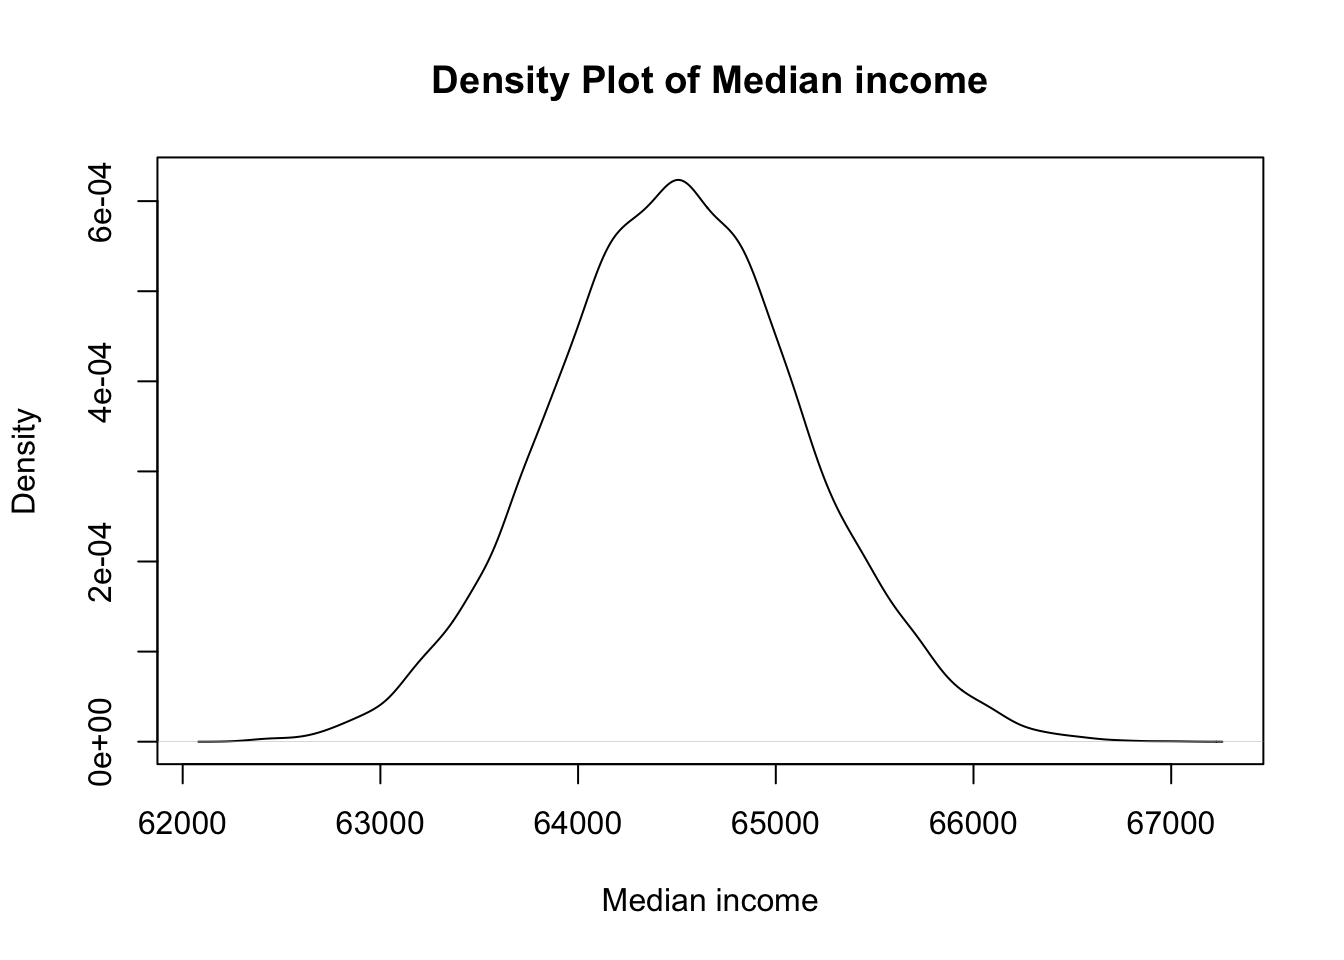
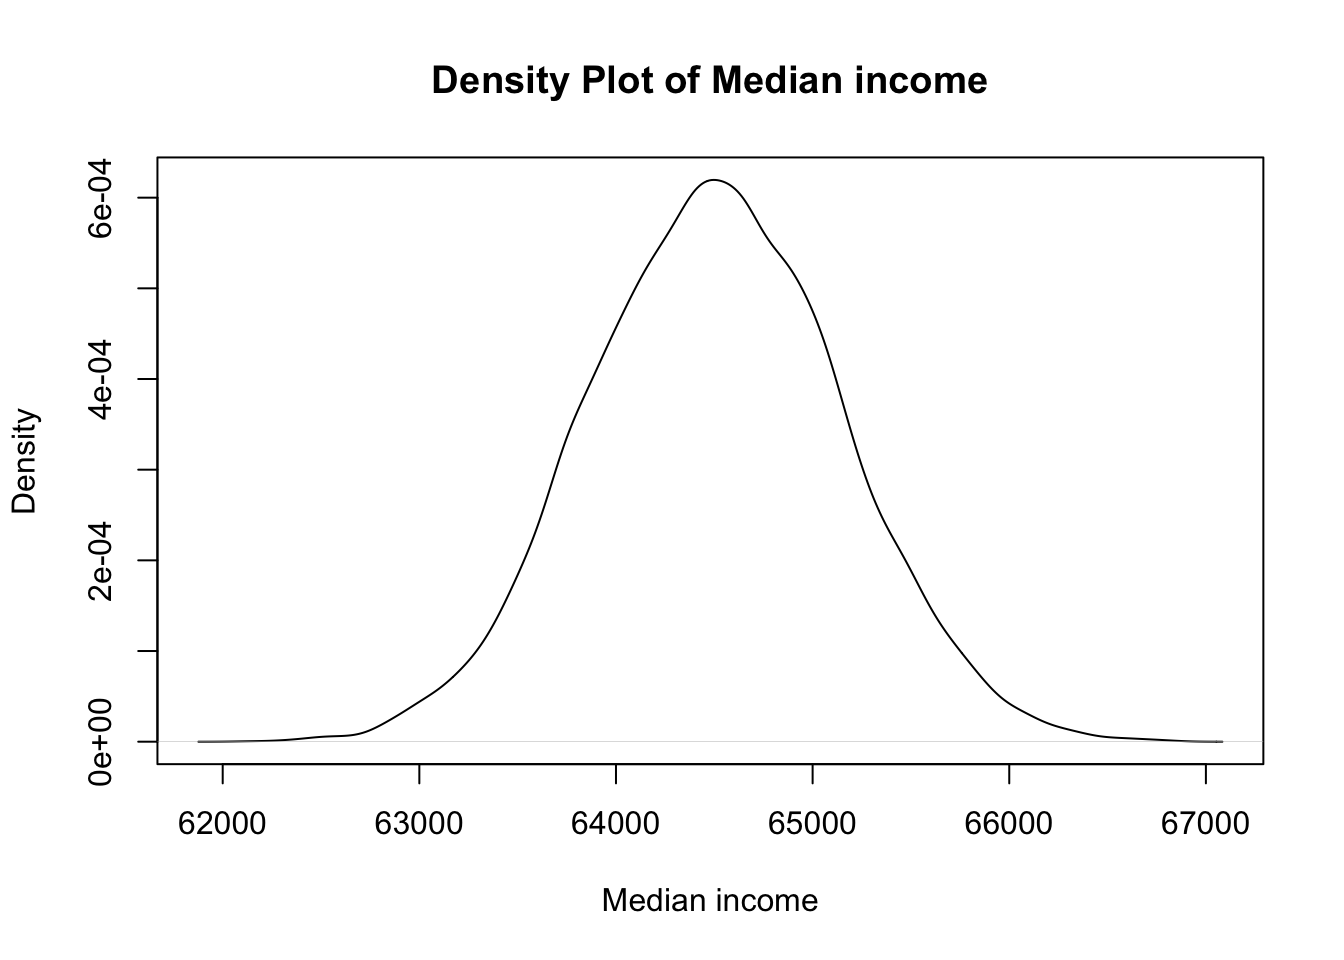
28112410

diff --git a/docs/posts/montecarlo.html b/docs/posts/montecarlo.html
@@ -1977,7 +1977,7 @@ Income distribution is not normal
 </details>
 <div class="cell-output cell-output-stdout">
 <pre><code>     Min.   1st Qu.    Median      Mean   3rd Qu.      Max. 
-   207500    295948    344892    577105    439793 228674374 </code></pre>
+   208697    295820    341613    547889    431615 213375195 </code></pre>
 </div>
 <details open="" class="code-fold">
 <summary>Code</summary>
@@ -1985,7 +1985,7 @@ Income distribution is not normal
 </details>
 <div class="cell-output cell-output-stdout">
 <pre><code>   Min. 1st Qu.  Median    Mean 3rd Qu.    Max. 
-  62353   64069   64493   64501   64925   66985 </code></pre>
+  62150   64065   64503   64503   64938   66810 </code></pre>
 </div>
 <details open="" class="code-fold">
 <summary>Code</summary>
@@ -1993,7 +1993,7 @@ Income distribution is not normal
 </details>
 <div class="cell-output cell-output-stdout">
 <pre><code>     Min.   1st Qu.    Median      Mean   3rd Qu.      Max. 
-9.873e+05 3.333e+06 5.734e+06 2.825e+07 1.206e+07 2.283e+10 </code></pre>
+9.020e+05 3.318e+06 5.554e+06 2.553e+07 1.150e+07 2.127e+10 </code></pre>
 </div>
 </div>
 </section>

diff --git a/docs/Biomedical/Research Methodology/wrangling.html b/docs/Biomedical/Research Methodology/wrangling.html
@@ -3273,10 +3273,10 @@ Record
 <pre><code>     age   sex  class
    &lt;int&gt; &lt;int&gt; &lt;fctr&gt;
 1:     1     1  child
-2:     2     0  child
+2:     2     1  child
 3:     3     1  child
 4:     4     1  child
-5:     5     1  child
+5:     5     0  child
 6:     6     0  child</code></pre>
 </div>
 </div>
@@ -3296,10 +3296,10 @@ Record
      age      0      1
    &lt;int&gt; &lt;fctr&gt; &lt;fctr&gt;
 1:     1   &lt;NA&gt;  child
-2:     2  child   &lt;NA&gt;
+2:     2   &lt;NA&gt;  child
 3:     3   &lt;NA&gt;  child
 4:     4   &lt;NA&gt;  child
-5:     5   &lt;NA&gt;  child
+5:     5  child   &lt;NA&gt;
 6:     6  child   &lt;NA&gt;</code></pre>
 </div>
 </div>
